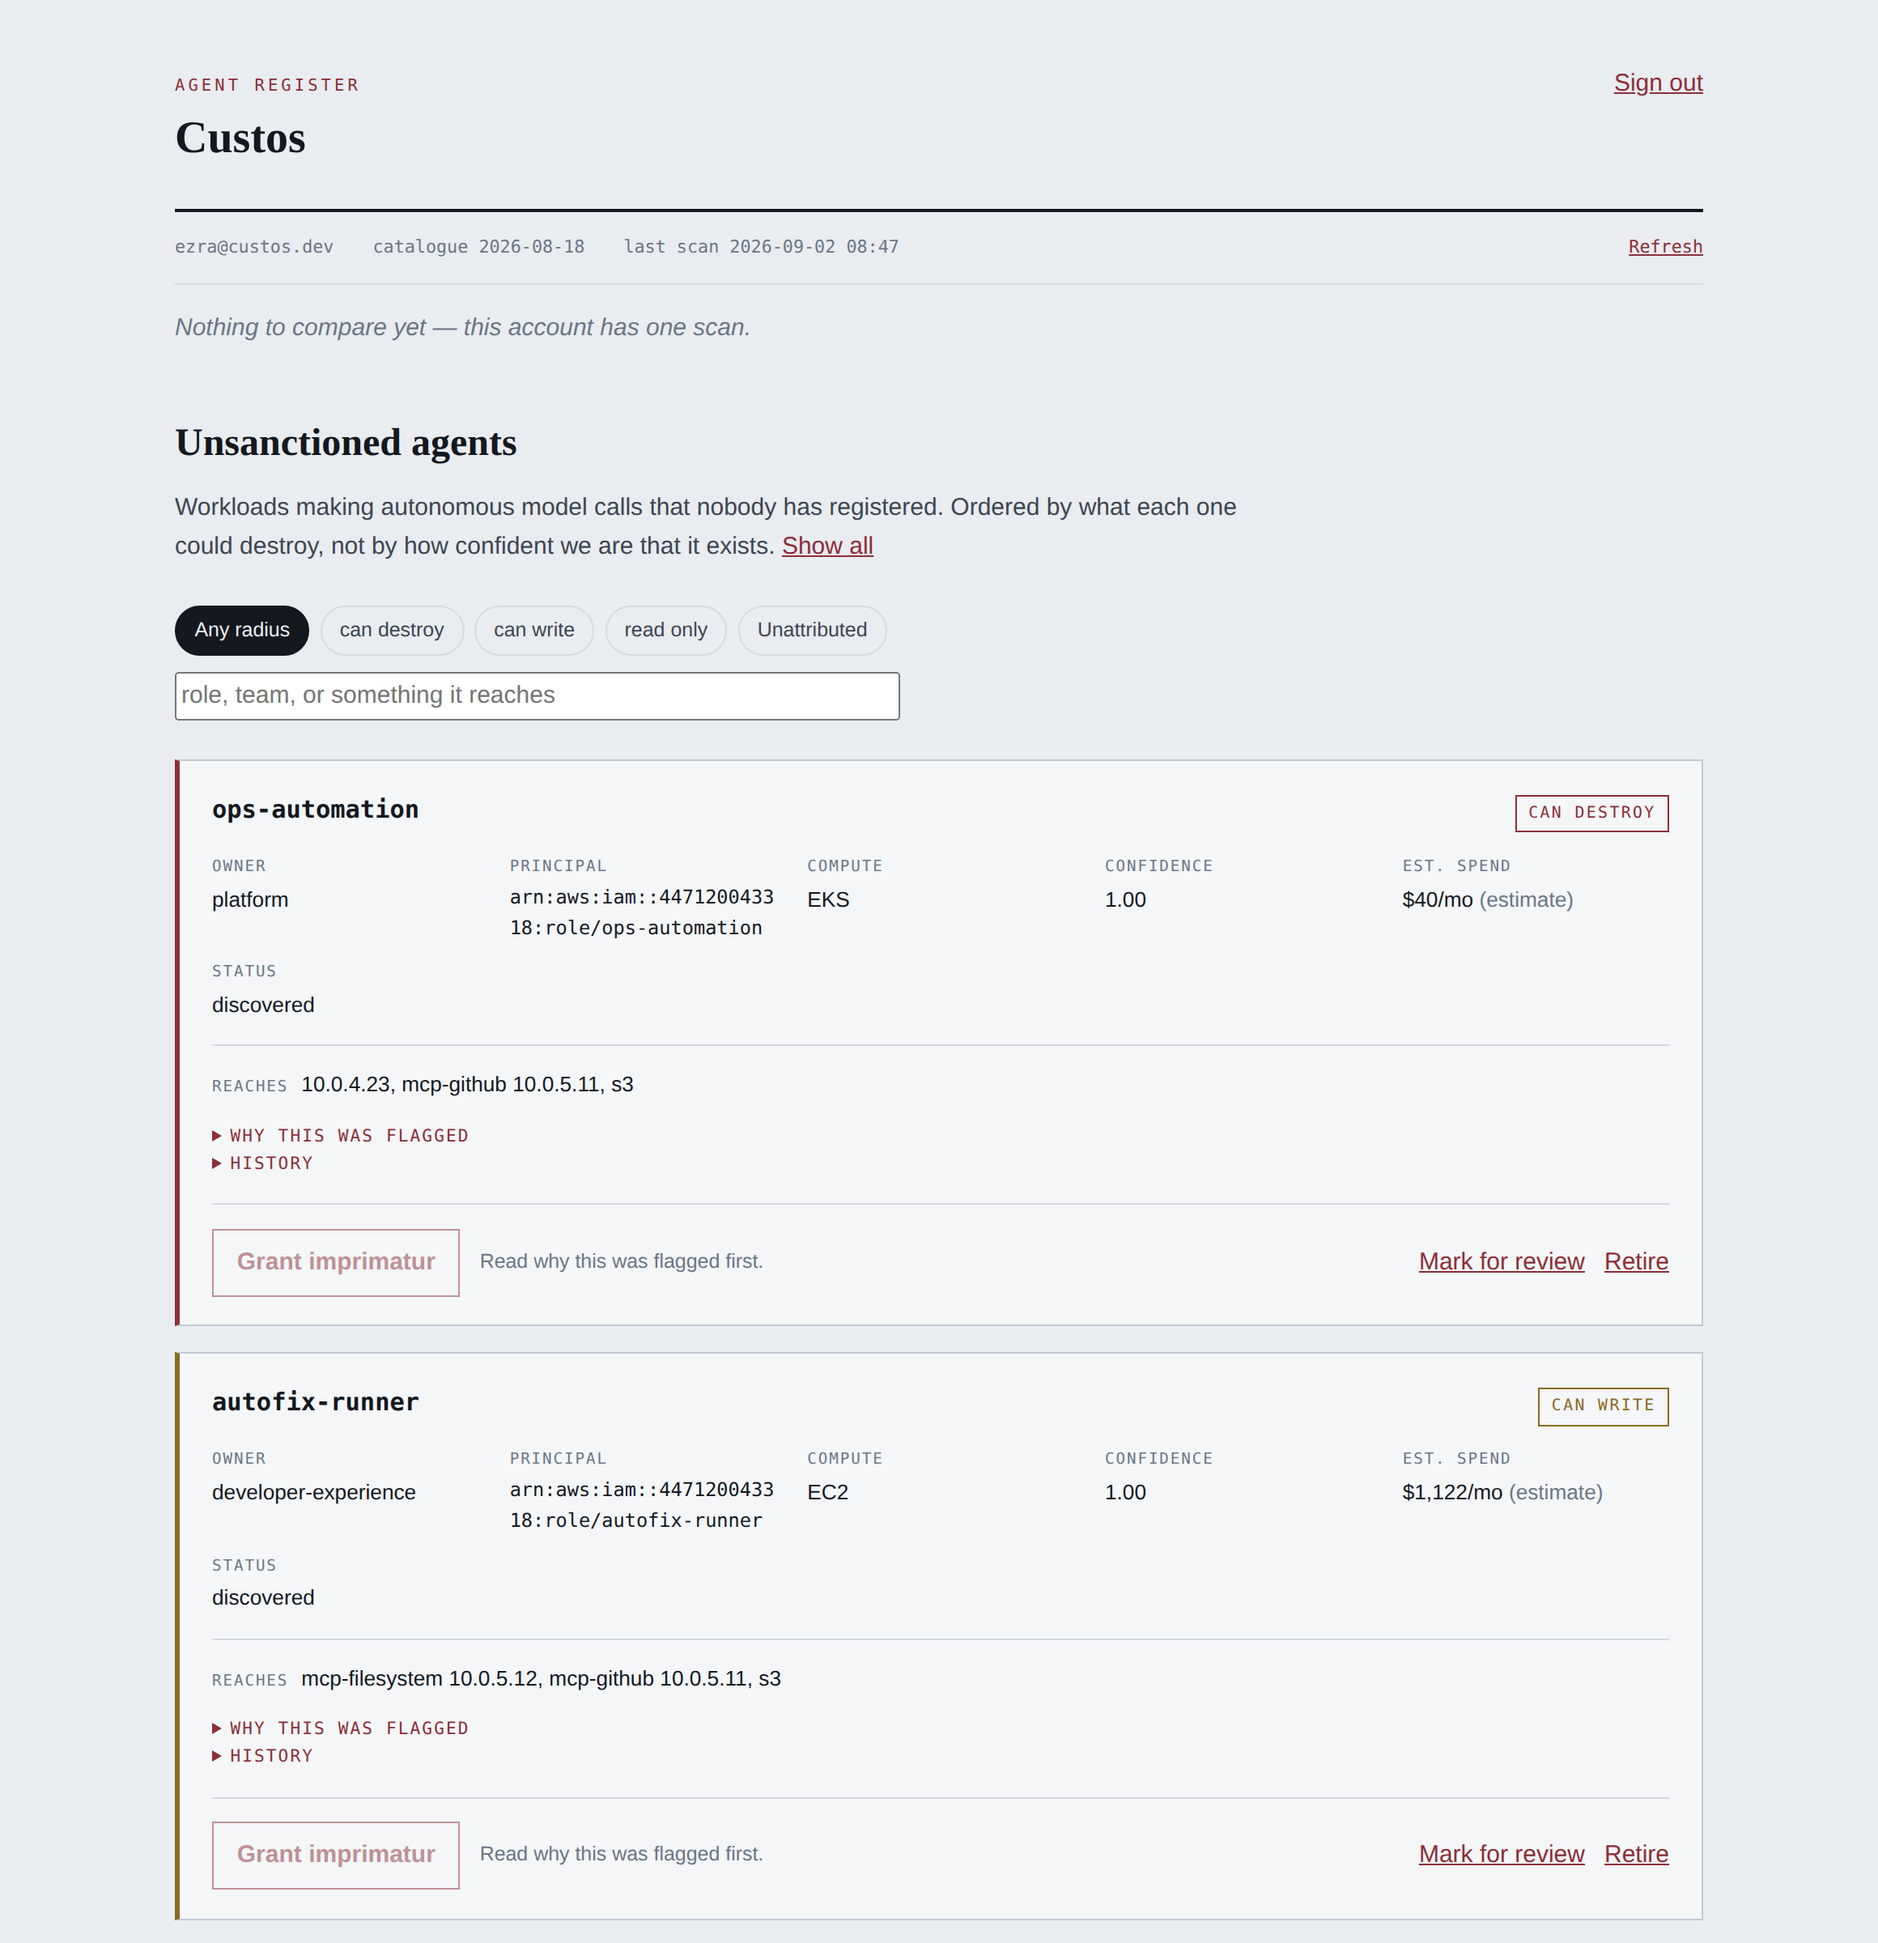
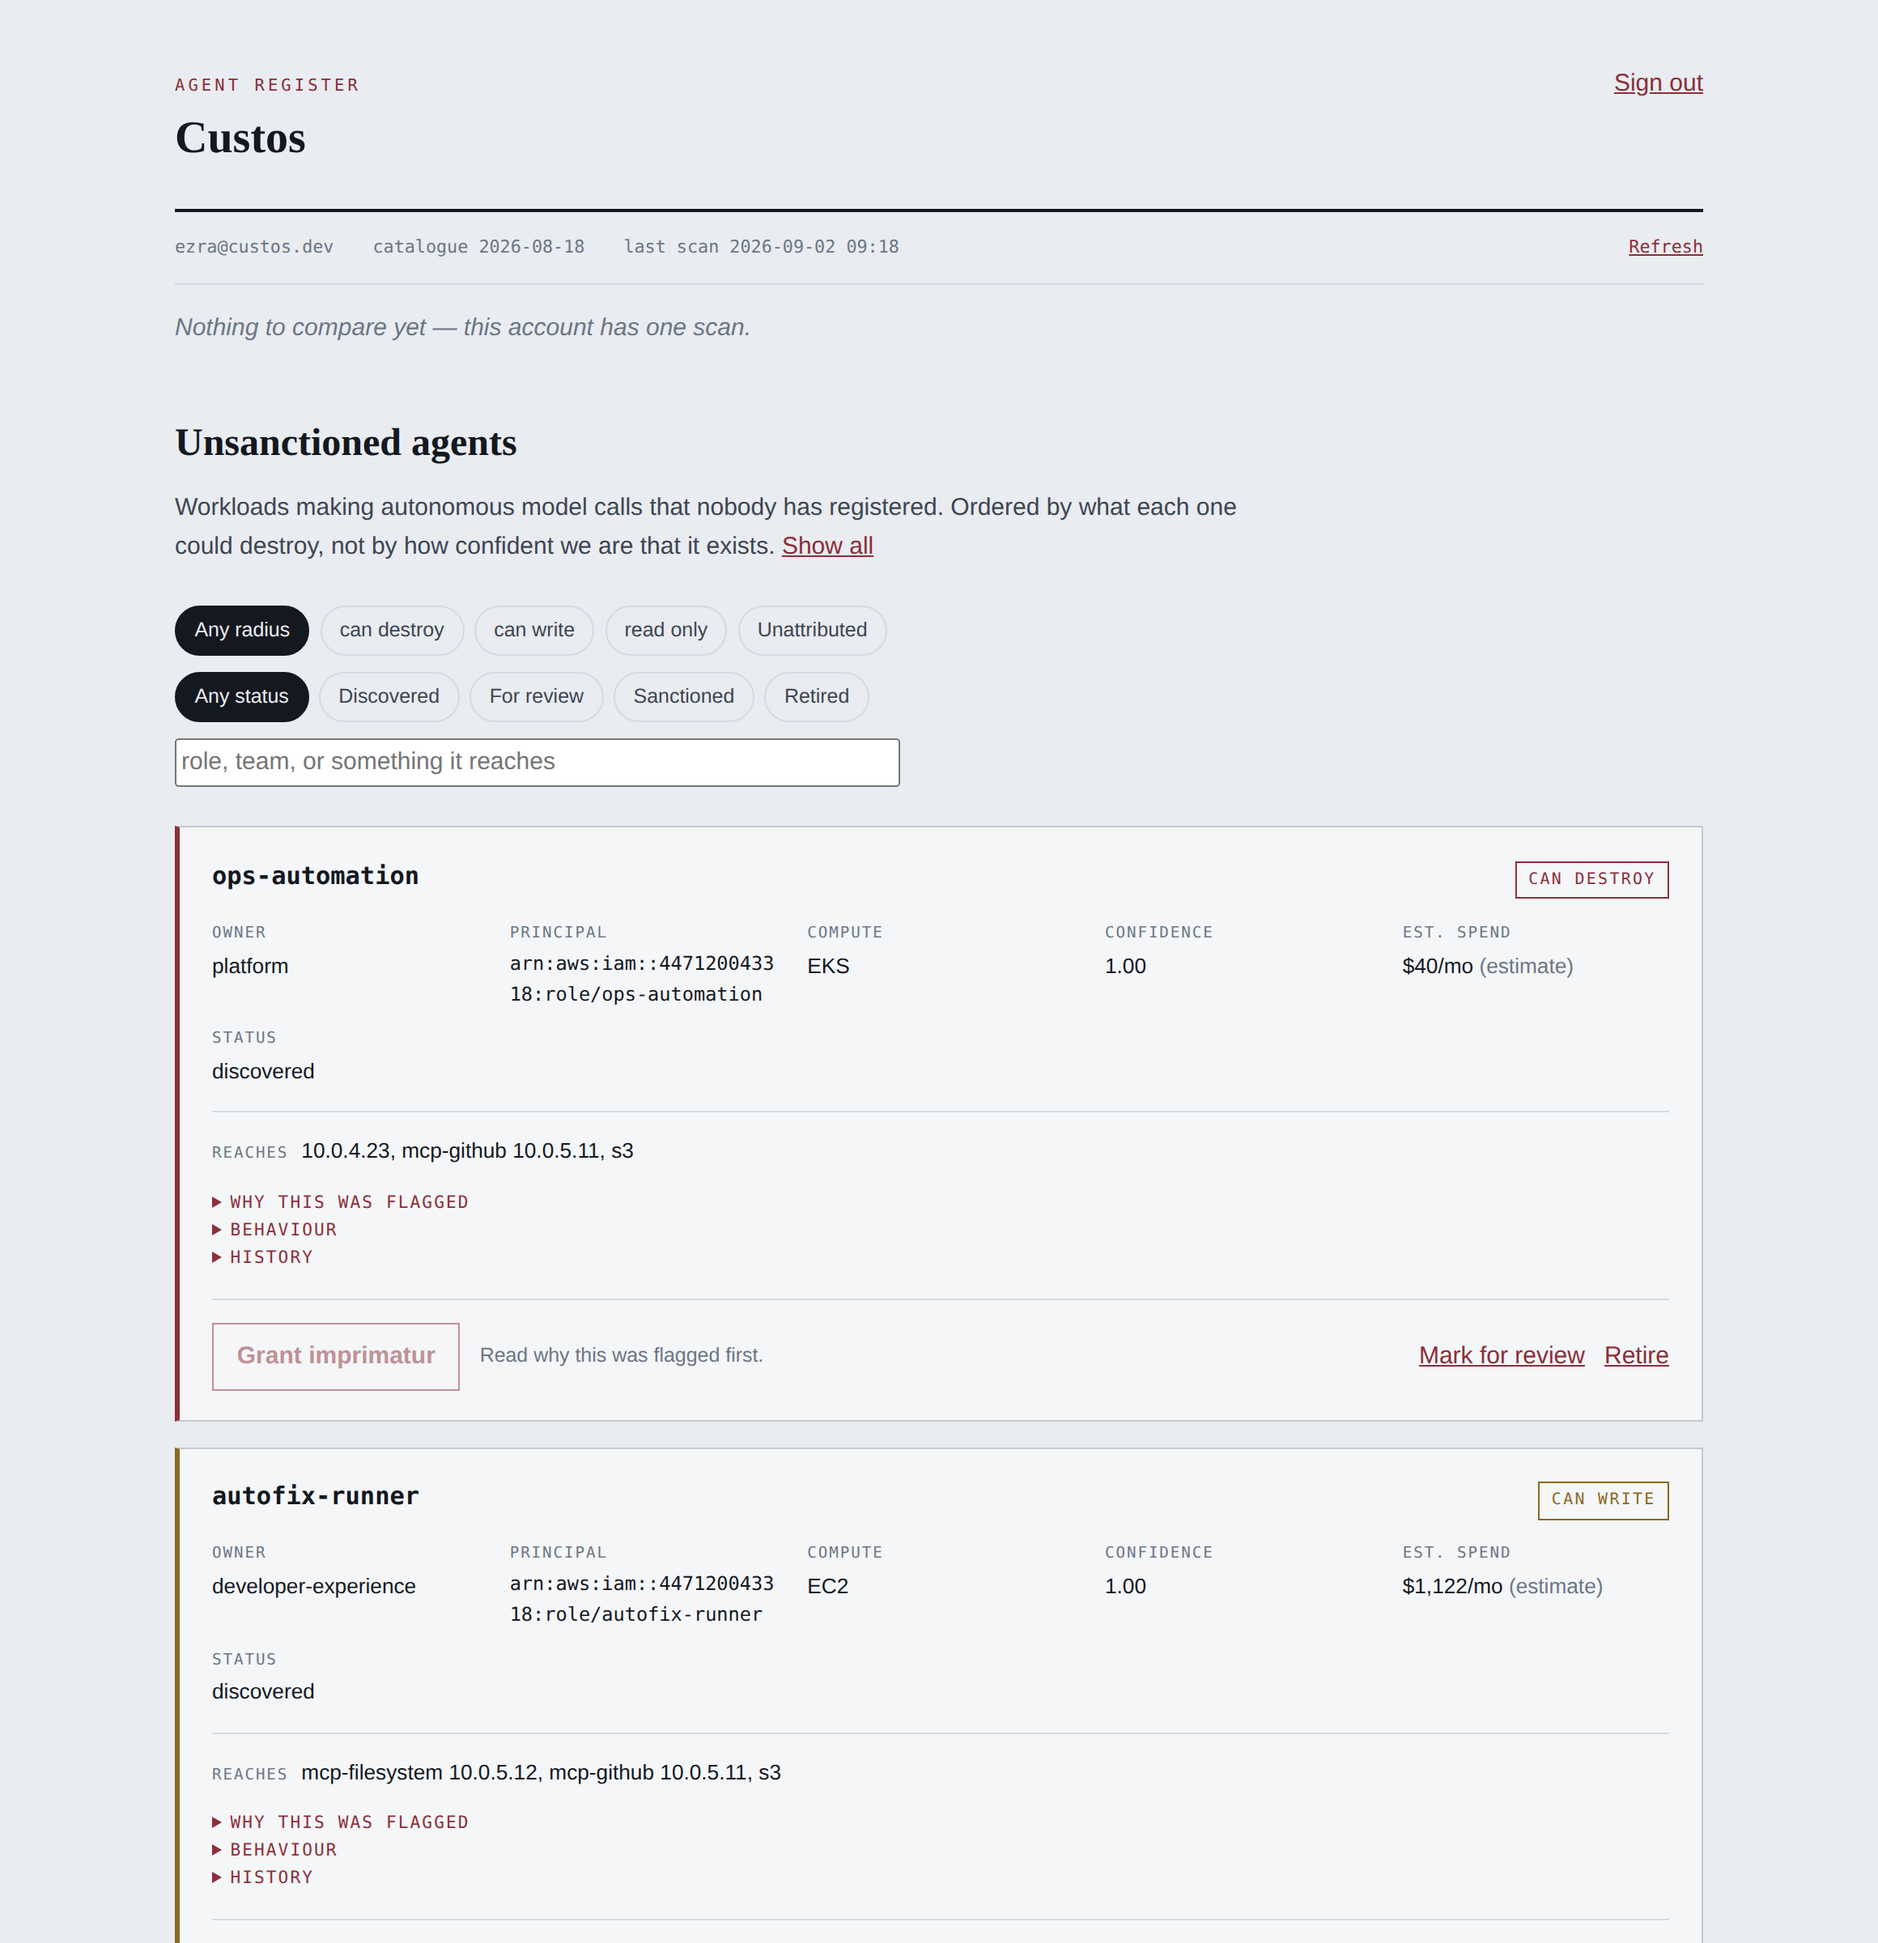
docs: refresh STATUS and the screenshots
The console does four things it did not when STATUS last described it,
and the images now show the behaviour section, the transition controls,
and named destinations.

Sharpened the note about the console being built early. It previously
named two decisions worth defending; there are four — ordering by
consequence, the evidence gate, a filtered list that always shows the
total, and `sanctioned` being absent from the status control — and
everything else about the layout is still a guess.

Added a row for scope readability, which is now measured in four places
and was the point of the naming work.

Claude-Session: https://claude.ai/code/session_016zQzLxJxQQJzSX6c9XrZxQ

diff --git a/docs/STATUS.md b/docs/STATUS.md
@@ -33,8 +33,9 @@ custos diff                 →  what changed since last week
 | Multi-account tokens | Works. One token covers a named set of accounts |
 | Onboarding and preflight | Works. `custos onboard`, `custos-collector --check` |
 | Enforcement checkpoint | **Not started.** §12: not before a paying customer |
-| Operator console | Works. Read the register, read the evidence, sanction. Served by the control plane |
+| Operator console | Works. Read, filter, sanction, retire, and see what changed. Served by the control plane |
 | Destination naming | Works where an ENI, an AWS description, or a port says what something is |
+| Scope readability, measured | Works. Reported by `--check`, the report, the console, and `custos history` |
 
 ## The one number that matters
 
@@ -88,12 +89,16 @@ design-partner conversation.
 
 **The console was built ahead of the schedule the specification set.** §12
 puts it after a paying customer, and that ordering was right: a UI built before
-anyone has used the product is a guess about what an operator wants to see.
-It exists because it was asked for. Treat its layout as provisional — the
-evidence gate and the consequence ordering are the two decisions in it worth
-defending, and both should be re-argued against a real operator rather than
-assumed. Nothing else depends on it: the CLI and the HTML report still do
-everything the console does.
+anyone has used the product is a guess about what an operator wants to see. It
+exists because it was asked for.
+
+Treat its layout as provisional. Four decisions in it are worth defending and
+should be re-argued against a real operator rather than assumed: ordering by
+consequence rather than confidence, the evidence gate on the grant control, a
+filtered list that always shows the total, and `sanctioned` being absent from
+the status control. Everything else about it is a guess.
+
+Nothing depends on it. The CLI and the HTML report still do everything it does.
 
 **Nobody has run this against an account we did not build.** Tag hygiene,
 unanticipated workload shapes, and provider endpoints outside our catalogue are
